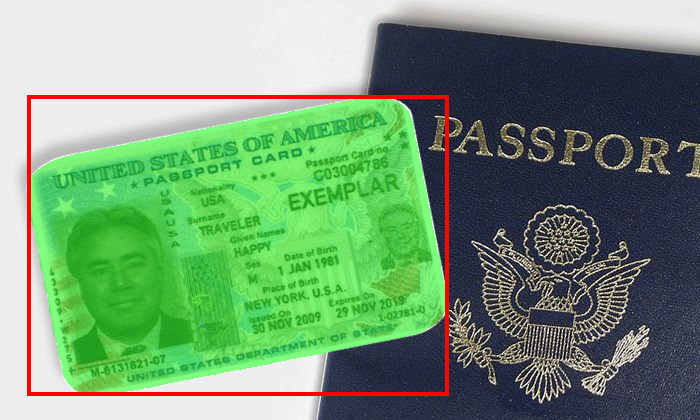
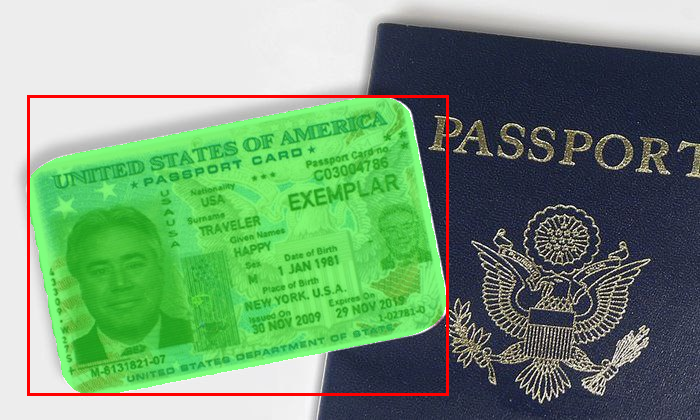
rm opencv

Changed region(s): [[0.48, 0.2167, 0.51, 0.2476]]

diff --git a/src/microwink/seg.py b/src/microwink/seg.py
@@ -1,11 +1,10 @@
-import math
 import os
 import onnxruntime as ort  # type: ignore # missing stubs
 import numpy as np
-import cv2 as cv
 
 from typing import Sequence
 from dataclasses import dataclass
+from PIL import Image
 from PIL.Image import Image as PILImage
 
 from . import common
@@ -79,7 +78,9 @@ class SegModel:
         )
 
     def apply(
-        self, image: PILImage, threshold: Threshold = Threshold.default()
+        self,
+        image: PILImage,
+        threshold: Threshold = Threshold.default(),
     ) -> list[SegResult]:
         assert image.mode == "RGB"
         tensor = self.preprocess(image)
@@ -104,7 +105,10 @@ class SegModel:
         return out
 
     def postprocess(
-        self, outs: list[np.ndarray], img_size: tuple[H, W], threshold: Threshold
+        self,
+        outs: list[np.ndarray],
+        img_size: tuple[H, W],
+        threshold: Threshold,
     ) -> Result | None:
         NUM_MASKS = 32
         box_out, mask_out = outs
@@ -130,7 +134,10 @@ class SegModel:
         final_boxes = boxes[indexes]
         final_scores = scores[indexes]
         final_mask_maps = self.postprocess_mask(
-            mask_preds[indexes], mask_out, final_boxes, img_size
+            mask_preds[indexes],
+            mask_out,
+            final_boxes,
+            img_size,
         )
         assert len(final_boxes) == len(final_scores) == len(final_mask_maps)
         return Result(
@@ -165,33 +172,30 @@ class SegModel:
                 iw,
             )
         )
-        blur_size = (
-            int(iw / mask_width),
-            int(ih / mask_height),
-        )
-        for i in range(len(scaled_boxes)):
-            scaled_box: np.ndarray = scaled_boxes[i]
-            box: np.ndarray = boxes[i]
-            scale_x1 = int(math.floor(scaled_box[0]))
-            scale_y1 = int(math.floor(scaled_box[1]))
-            scale_x2 = int(math.ceil(scaled_box[2]))
-            scale_y2 = int(math.ceil(scaled_box[3]))
-
-            x1 = int(math.floor(box[0]))
-            y1 = int(math.floor(box[1]))
-            x2 = int(math.ceil(box[2]))
-            y2 = int(math.ceil(box[3]))
-
-            mask: np.ndarray = masks[i]
+        assert len(scaled_boxes) == len(masks)
+        assert len(scaled_boxes) == len(boxes)
+        for i, (box, scaled_box, mask) in enumerate(zip(boxes, scaled_boxes, masks)):
             assert 2 == len(mask.shape)
-            final_mask = cv.resize(
+
+            scale_x1 = int(scaled_box[0])
+            scale_y1 = int(scaled_box[1])
+            scale_x2 = 1 + int(scaled_box[2])
+            scale_y2 = 1 + int(scaled_box[3])
+
+            x1 = int(box[0])
+            y1 = int(box[1])
+            x2 = 1 + int(box[2])
+            y2 = 1 + int(box[3])
+
+            ow, oh = (x2 - x1, y2 - y1)
+            assert ow >= 0
+            assert oh >= 0
+            resized_mask = resize(
                 mask[scale_y1:scale_y2, scale_x1:scale_x2],
-                (x2 - x1, y2 - y1),
-                interpolation=cv.INTER_CUBIC,
+                (ow, oh),
             )
-            final_mask = cv.blur(final_mask, blur_size)  # -> [-inf, +inf]
-            final_mask = common.sigmoid(final_mask).clip(0.0, 1.0)
-            mask_maps[i, y1:y2, x1:x2] = final_mask
+            assert resized_mask.shape == (oh, ow)
+            mask_maps[i, y1:y2, x1:x2] = common.sigmoid(resized_mask).clip(0.0, 1.0)
 
         return mask_maps
 
@@ -204,7 +208,8 @@ class SegModel:
 
     def preprocess(self, image: PILImage) -> np.ndarray:
         size = (self.input_shape.w, self.input_shape.h)
-        image = image.resize(size)
+        if image.size != size:
+            image = image.resize(size)
         img = np.array(image).astype(np.float32)
         assert len(img.shape) == 3
         img /= 255.0
@@ -295,3 +300,11 @@ def compute_iou(box: np.ndarray, boxes: np.ndarray) -> np.ndarray:
 
     iou = intersection_area / union_area
     return iou
+
+
+def resize(buf: np.ndarray, size: tuple[W, H]) -> np.ndarray:
+    img = Image.fromarray(buf).resize(size)
+    out = np.array(img)
+    assert out.dtype == buf.dtype
+    assert len(out.shape) == len(buf.shape)
+    return out

diff --git a/src/microwink/common.py b/src/microwink/common.py
@@ -32,7 +32,7 @@ def draw_box(
     box: Box,
     *,
     color: tuple[int, ...] | str | float = (255, 0, 0),
-    width: int = 4,
+    width: int = 3,
 ) -> PILImage:
     image = image.copy()
     draw = ImageDraw.Draw(image)
